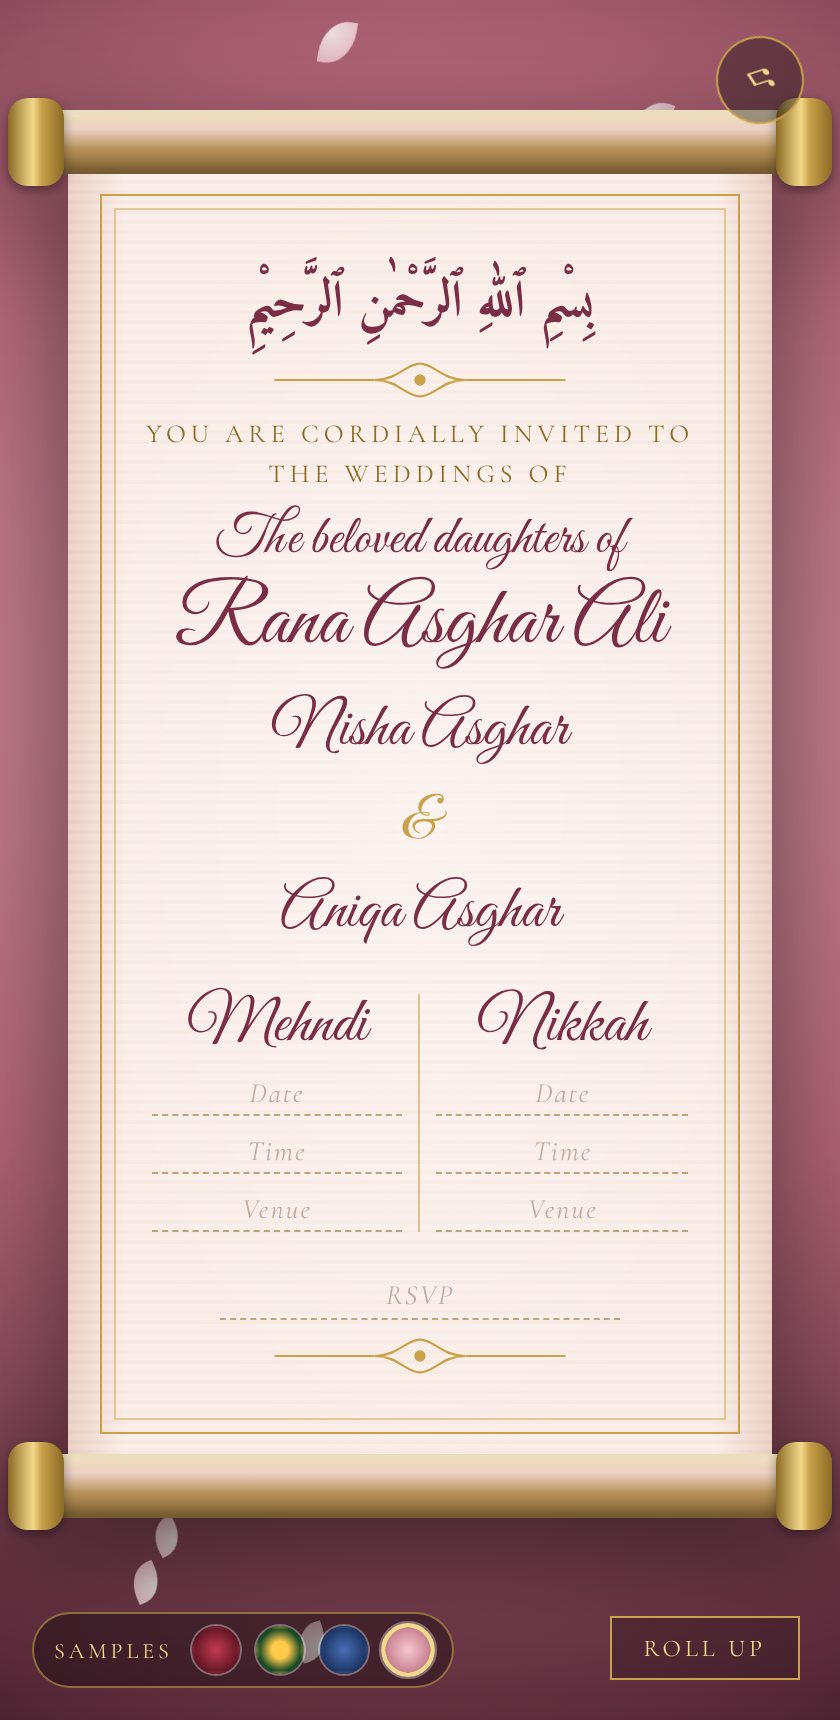
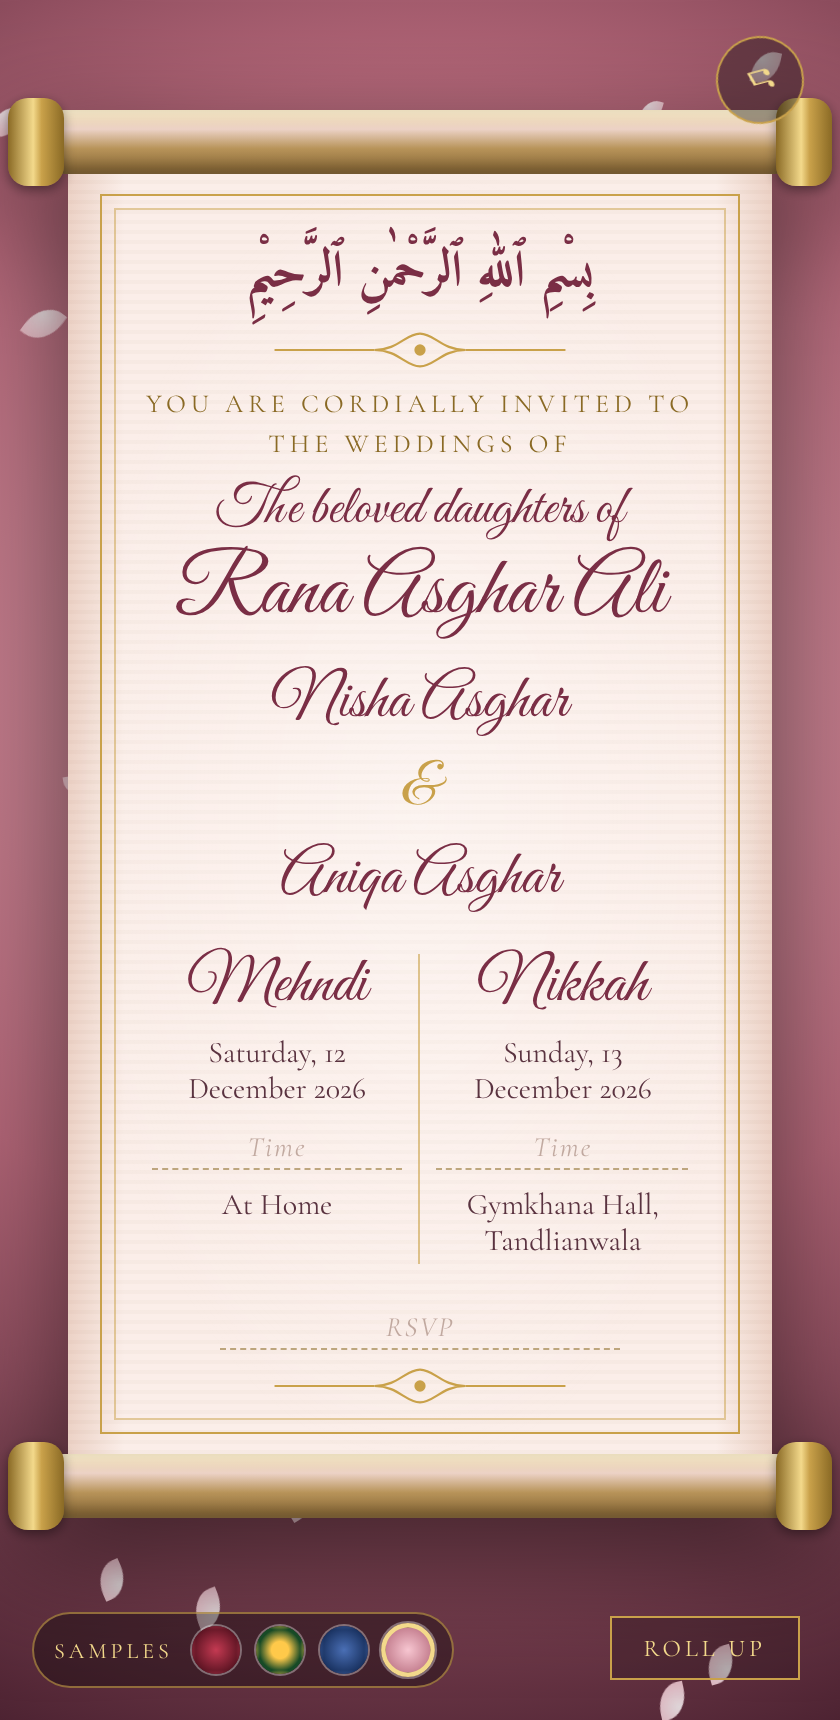
Add Mehndi and Nikkah dates and venues
Claude-Session: https://claude.ai/code/session_018LanUARvSCfKdbJiRGGymV

diff --git a/wedding-scroll/index.html b/wedding-scroll/index.html
@@ -246,15 +246,15 @@
         <div class="events">
           <div class="event">
             <h3>Mehndi</h3>
-            <div class="field" contenteditable="true" data-label="Date"></div>
+            <div class="field" contenteditable="true" data-label="Date">Saturday, 12 December 2026</div>
             <div class="field" contenteditable="true" data-label="Time"></div>
-            <div class="field" contenteditable="true" data-label="Venue"></div>
+            <div class="field" contenteditable="true" data-label="Venue">At Home</div>
           </div>
           <div class="event">
             <h3>Nikkah</h3>
-            <div class="field" contenteditable="true" data-label="Date"></div>
+            <div class="field" contenteditable="true" data-label="Date">Sunday, 13 December 2026</div>
             <div class="field" contenteditable="true" data-label="Time"></div>
-            <div class="field" contenteditable="true" data-label="Venue"></div>
+            <div class="field" contenteditable="true" data-label="Venue">Gymkhana Hall, Tandlianwala</div>
           </div>
         </div>
 
